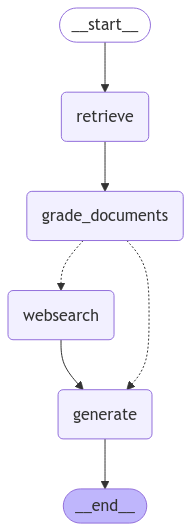
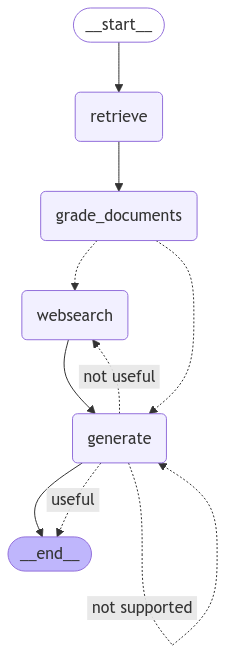
chore: implement self rag

diff --git a/graph/graph.py b/graph/graph.py
@@ -2,6 +2,8 @@ from dotenv import load_dotenv
 
 from langgraph.graph import END, StateGraph
 
+from graph.chains.answer_grader import answer_grader
+from graph.chains.hallucination_grader import  hallucination_grader
 from graph.consts import RETRIEVE, GRADE_DOCUMENTS, GENERATE, WEBSEARCH
 from graph.nodes import generate, grade_documents, retrieve, web_search
 from graph.state import GraphState
@@ -20,6 +22,30 @@ def decide_to_generate(state):
         print("---DECISION: GENERATE---")
         return GENERATE
 
+def grade_generation_grounded_in_documents_and_question(state: GraphState) -> str:
+    print("---CHECK HALLUCINATIONS---")
+    question = state["question"]
+    documents = state["documents"]
+    generation = state["generation"]
+
+    score = hallucination_grader.invoke(
+        {"documents": documents, "generation": generation}
+    )
+
+    if hallucination_grade := score.binary_score:
+        print("---DECISION: GENERATION IS GROUNDED IN DOCUMENTS---")
+        print("---GRADE GENERATION vs QUESTION---")
+        score = answer_grader.invoke({"question": question, "generation": generation})
+        if answer_grade := score.binary_score:
+            print("---DECISION: GENERATION ADDRESSES QUESTION---")
+            return "useful"
+        else:
+            print("---DECISION: GENERATION DOES NOT ADDRESS QUESTION---")
+            return "not useful"
+    else:
+        print("---DECISION: GENERATION IS NOT GROUNDED IN DOCUMENTS, RE-TRY---")
+        return "not supported"
+
 workflow = StateGraph(GraphState)
 
 workflow.add_node(RETRIEVE, retrieve)
@@ -36,6 +62,15 @@ workflow.add_conditional_edges(
         WEBSEARCH: WEBSEARCH,
         GENERATE: GENERATE,
     }
+)
+workflow.add_conditional_edges(
+    GENERATE,
+    grade_generation_grounded_in_documents_and_question,
+    {
+        "not supported": GENERATE,
+        "useful": END,
+        "not useful": WEBSEARCH,
+    },
 )
 workflow.add_edge(WEBSEARCH, GENERATE)
 workflow.add_edge(GENERATE, END)

diff --git a/graph/chains/tests/test_chains.py b/graph/chains/tests/test_chains.py
@@ -4,6 +4,7 @@ from pprint import pprint
 
 load_dotenv()
 
+from graph.chains.hallucination_grader import hallucination_grader, GradeHallucinations
 from graph.chains.retrieval_grader import GradeDocuments, retrieval_grader
 from graph.chains.generation import generation_chain
 from ingestion import retriever
@@ -35,3 +36,23 @@ def test_generation_chain() -> None:
     docs = retriever.invoke(question)
     generation = generation_chain.invoke({"context": docs, "question": question})
     pprint(generation)
+
+# Self RAG test implementation
+def test_hallucination_grader_answer_yes() -> None:
+    question = "agent memory"
+    docs = retriever.invoke(question)
+
+    generation = generation_chain.invoke({"context": docs, "question": question})
+    res: GradeHallucinations = hallucination_grader.invoke(
+        {"documents": docs, "generation": generation}
+    )
+    assert res.binary_score
+
+def test_hallucination_grader_answer_no() -> None:
+    question = "agent memory"
+    docs = retriever.invoke(question)
+
+    res: GradeHallucinations = hallucination_grader.invoke(
+        {"documents": docs, "generation": "In order to make pizza we need to first start with the dough"}
+    )
+    assert not res.binary_score

diff --git a/graph/chains/hallucination_grader.py b/graph/chains/hallucination_grader.py
@@ -1,0 +1,28 @@
+# For Self RAG implementation
+from langchain_core.prompts import ChatPromptTemplate
+from langchain_core.pydantic_v1 import BaseModel, Field
+from langchain_core.runnables import RunnableSequence
+from langchain_openai import ChatOpenAI
+
+llm = ChatOpenAI(temperature=0)
+
+class GradeHallucinations(BaseModel):
+    """Binary score for hallucination present in generation answer."""
+
+    binary_score: bool = Field(
+        description="Answer is grounded in the facts, 'yes or 'no'"
+    )
+
+structured_llm_grader = llm.with_structured_output(GradeHallucinations)
+
+system = """You are a grader assessing whether an LLM generation is grounded in / supported by a set of retrieved facts. \n 
+     Give a binary score 'yes' or 'no'. 'Yes' means that the answer is grounded in / supported by the set of facts."""
+
+hallucination_prompt = ChatPromptTemplate.from_messages(
+    [
+        ("system", system),
+        ("human", "Set of facts: \n\n {documents} \n\n LLM generation: {generation}"),
+    ]
+)
+
+hallucination_grader: RunnableSequence = hallucination_prompt | structured_llm_grader

diff --git a/graph/chains/answer_grader.py b/graph/chains/answer_grader.py
@@ -1,0 +1,25 @@
+# For Self RAG implementation
+from langchain_core.prompts import ChatPromptTemplate
+from langchain_core.pydantic_v1 import BaseModel, Field
+from langchain_core.runnables import RunnableSequence
+from langchain_openai import ChatOpenAI
+
+class GradeAnswer(BaseModel):
+
+    binary_score: bool = Field(
+        description="Answer addresses the question, 'yes' or 'no'"
+    )
+
+llm = ChatOpenAI(temperature=0)
+structured_llm_grader = llm.with_structured_output(GradeAnswer)
+
+system = """You are a grader assessing whether an answer addresses / resolves a question \n
+    Give a binary score 'yes' or 'no'. 'Yes' means that the answer resolves the question."""
+answer_prompt = ChatPromptTemplate.from_messages(
+    [
+        ("system", system),
+        ("human", "User question: \n\n {question} \n\n LLM generation: {generation}"),
+    ]
+)
+
+answer_grader: RunnableSequence = answer_prompt | structured_llm_grader

diff --git a/README.md b/README.md
@@ -30,6 +30,34 @@ graph TD;
 - `tests/` - Contains the tests for the chains.
 - `ingestion.py` - Hold the logic that will download information to be indexed in the vector store
 
+## Self RAG
+
+Reflect on the answer and compare it to the documents to check if the model hallucinated. 
+Check if the result is grounded in the documents.
+
+```mermaid
+%%{init: {'flowchart': {'curve': 'linear'}}}%%
+graph TD;
+	__start__([<p>__start__</p>]):::first
+	retrieve(retrieve)
+	grade_documents(grade_documents)
+	generate(generate)
+	websearch(websearch)
+	__end__([<p>__end__</p>]):::last
+	__start__ --> retrieve;
+	generate --> __end__;
+	retrieve --> grade_documents;
+	websearch --> generate;
+	grade_documents -.-> websearch;
+	grade_documents -.-> generate;
+	generate -. &nbsp;useful&nbsp; .-> __end__;
+	generate -. &nbsp;not useful&nbsp; .-> websearch;
+	generate -. &nbsp;not supported&nbsp; .-> generate;
+	classDef default fill:#f2f0ff,line-height:1.2
+	classDef first fill-opacity:0
+	classDef last fill:#bfb6fc
+```
+
 ### Running the project
 
 Uncomment the **vectorstore** code at the ingestion file and run the project. A new `.chroma` folder will be created at the root of the application.
@@ -54,3 +82,4 @@ pytest . -s -v
 - [LangChain's Cookbook](https://github.com/mistralai/cookbook/tree/main/third_party/langchain)
 - [langgraph-course repository from Eden Marco](https://github.com/emarco177/langgaph-course)
 - [LangGraph- Develop LLM powered AI agents with LangGraph](https://www.udemy.com/course/langgraph/?couponCode=KEEPLEARNING)
+- [Self-RAG: Learning to retrieve, generate, and critique through self-reflection](https://arxiv.org/pdf/2310.11511)
